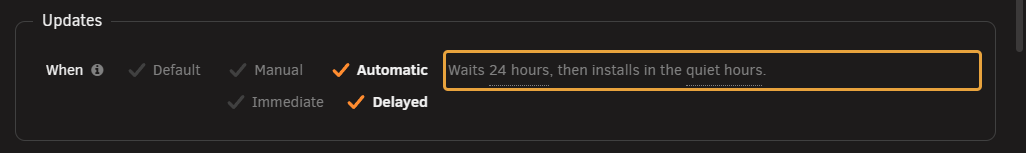
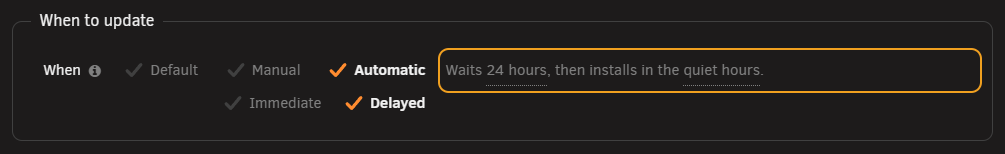
Guide: a Proxy and DNS page, and five pages brought up to date
The new page covers connecting Nginx Proxy Manager and Pi-hole, adding
the section to an app, saving and applying, taking over entries you
already have, switching off and removing, and the DNS mark. Settings
names the Integrations tab, Update policy the When to update box, the
editor tour folding sections, Marks the DNS mark, and Removing a stack
the proxy and Pi-hole choices. Pictures come from a throwaway demo stack.

Claude-Session: https://claude.ai/code/session_01XHPxR9EAziyYj4UczaFhek

diff --git a/docs/guide/proxy-and-dns.md b/docs/guide/proxy-and-dns.md
@@ -1,0 +1,109 @@
+# Proxy and DNS
+
+<!-- index: 47 | giving an app a web address through Nginx Proxy Manager and a local DNS name in Pi-hole, and what the DNS mark on the stack list means. -->
+
+Give an app a domain name and StaXX creates its proxy entry in Nginx Proxy Manager. It can also add
+the same name to Pi-hole, so devices on your network find the app by it. You need Nginx Proxy
+Manager; Pi-hole is optional.
+
+## The short version
+
+1. Connect StaXX to Nginx Proxy Manager, and to Pi-hole if you use it, on the **Integrations** tab
+   of Settings.
+2. Open the app's stack, press its **Sections** button, and turn on **Proxy and DNS**.
+3. Type a domain name, choose a certificate, and turn on **DNS name** if you want one.
+4. Press **Save**, then **Apply** to write the entry into Nginx Proxy Manager and Pi-hole.
+
+## Setting up the connection
+
+![The Integrations tab showing the Nginx Proxy Manager box with an example address and email, the Pi-hole box with an example address, Allow insecure connections switched on, and Test connection with a tick for Nginx Proxy Manager and a tick for Pi-hole](../images/guide/settings-integrations-proxy.png)
+
+Under **Settings**, on the **Integrations** tab, fill in the address of Nginx Proxy Manager's admin page
+(the one on port 81) and the email and password you sign in with there. Fill in Pi-hole's address too if
+you want local DNS names as well. Press **Save**, then **Test connection** to check both.
+
+If either service only answers on plain http, or its certificate cannot be checked, turn on
+**Allow insecure connections** first. Every setting on this tab is described in [Settings](settings.md).
+
+**Pi-hole passwords.** If your Pi-hole has no admin password set, leave the **App password** box
+blank. That Pi-hole ignores app passwords and reports any you try as incorrect. If
+your Pi-hole does have an admin password, make an app password for StaXX instead of using the admin
+one: in Pi-hole, go to **Settings → Web interface / API**, switch to **Expert**, open **Configure
+app password**, press **Enable new app password**, then **Save & Apply**. Paste the app password
+Pi-hole shows you into StaXX's Integrations tab. Pi-hole may also need **Permit destructive actions
+via API** turned on, in the same place, before StaXX can add or remove names. This needs Pi-hole 6;
+an older Pi-hole cannot be connected.
+
+## Adding the section to an app
+
+![Close-up of the Sections menu, with an arrow pointing at Proxy and DNS](../images/guide/proxy-and-dns-sections-menu-closeup.png)
+
+Open the stack, press the service's **Sections** button, and tick **Proxy and DNS**. The section
+appears after **Updates**. Start the app at least once before you save a domain name for it.
+
+## The Proxy and DNS section
+
+![The form side of the stack editor with the Proxy and DNS section open: Enabled on, the domain jellyfin.example.com, Certificate set to None (plain http), WebSockets and Add to Pi-hole on, two Status lines each marked with a red cross, reading Nginx Proxy Manager: no proxy entry yet and Pi-hole: the DNS name is missing, with an Apply button, and the Remove from proxy and DNS button](../images/guide/proxy-and-dns-group.png)
+
+| Row | What it does |
+|---|---|
+| **Domain name** | The address the app answers on, such as `sonarr.home.lan`. Typing one gives the app a proxy entry. |
+| **Certificate** | Which certificate Nginx Proxy Manager uses for this domain, picked from the certificates already stored there. Leave it unset for a plain, unencrypted entry. |
+| **WebSockets** | Whether the proxy allows WebSocket connections through to the app. On by default. |
+| **DNS name** | Adds a matching name in Pi-hole, pointing at Nginx Proxy Manager. Only shown once Pi-hole is connected. |
+| **Status** | Whether the entry in Nginx Proxy Manager and Pi-hole currently matches what is set here. |
+
+The **Enabled** switch beside the heading switches the proxy entry on or off in Nginx Proxy Manager.
+Its settings are kept while it is off.
+
+## Saving and applying
+
+Press **Save** as usual. If the Proxy and DNS group has changed, StaXX then shows what it is about
+to do in Nginx Proxy Manager and Pi-hole, one line per change.
+
+![The box that opens after Save, titled Update the proxy and DNS for jellyfin-demo, listing a proxy entry to create and a Pi-hole name to add, with Not now and Apply](../images/guide/proxy-and-dns-apply-confirm-closeup.png)
+
+Press **Apply** to make the changes now, or **Not now** to leave the stack saved without applying
+them yet. Left unapplied, the app's DNS mark on the stack list shows red until you apply it, from
+here or from the mark itself.
+
+## Taking over an entry you already have
+
+If Nginx Proxy Manager or Pi-hole already has an entry for the domain you typed, the box after
+**Save** offers to take it over. It lists anything that would change, or says **Nothing about it
+changes.** Press **Apply** to take it over as it is.
+
+- A proxy entry that answers for several domain names must be split in Nginx Proxy Manager first,
+  one name per entry.
+- Each app in StaXX needs a domain name of its own.
+
+## Switching off and removing
+
+Turn **Enabled** off to switch the proxy entry off. The Pi-hole name stays as it is.
+
+![The Enabled switch at the right end of the Proxy and DNS heading, with an arrow pointing at it](../images/guide/proxy-and-dns-enabled.png)
+
+Press **Remove from proxy and DNS** to take the app off both services. The proxy entry and the
+Pi-hole name are deleted when you save.
+
+If you clear the domain name or turn **DNS name** off instead, **Save** asks what to do with each
+entry: switch the proxy entry off, delete it or keep it, and delete or keep the Pi-hole name.
+
+## The DNS mark on the stack list
+
+An app with a domain name shows a small **DNS** mark beside its service name: green when its
+entries match, red when one is missing or changed, grey when switched off. Press a red mark to open
+the editor at this app's Proxy and DNS section. The [marks page](marks.md) has the full key.
+
+![The plex service on the stack list with its green DNS mark, and the card that opens on hover showing the domain name and a tick for Nginx Proxy Manager and for Pi-hole](../images/guide/proxy-and-dns-dns-mark.png)
+
+## Archiving a stack
+
+Removing a stack that has proxy or Pi-hole entries asks what to do with each of them. See
+[removing a stack](removing-a-stack.md).
+
+## Terms used here
+
+Any word you are not sure of is in the [glossary](../glossary.md).
+
+Back to [the StaXX guide](README.md).

diff --git a/docs/guide/settings.md b/docs/guide/settings.md
@@ -95,9 +95,10 @@ This tab is explained fully in [checking for updates](updates.md).
 | Remove old images automatically | No / Yes, once a week | No | With this on, once a week StaXX removes downloaded images that nothing is running and that are no longer kept for putting back. It never removes anything else. With it off, old images stay until you remove them yourself. |
 | Update-check activity | — | — | Shows, for each place StaXX asks about updates, how many times it has asked this hour and today, how many of those counted against that place's limit. Where there is something to say about a place — that it sets no limit of its own, or that it has stopped answering — the row carries an asterisk and the note appears once underneath the table. Look here when a row keeps saying `could not check`. See [checking for updates](updates.md#docker-hubs-limit). |
 
-## Registries and security tab
+## Integrations tab
 
-![The Registries and security tab in full: the Docker Hub access box with its Username and Access token fields, the Registries you run yourself box with its address field and Add button, and the StaXXCrypt hashing container box with its dropdown, its state line, the four password formats each marked passes, the What is inside it list and the Show the recipe link](../images/guide/settings-registries-tab.png)
+![The Integrations tab in full: the Docker Hub access box with its Username and Access token fields, the Registries you run yourself box with its address field and Add button, and the StaXXCrypt hashing container box with its dropdown, its state line, the four password formats each marked passes, the What is inside it list and the Show the recipe link](../images/guide/settings-registries-tab.png)
+![The lower part of the Integrations tab: the Nginx Proxy Manager box, the Pi-hole box, the Allow insecure connections switch and Test connection with its result](../images/guide/settings-integrations-proxy.png)
 
 | Setting | What it does |
 |---|---|
@@ -105,6 +106,15 @@ This tab is explained fully in [checking for updates](updates.md).
 | Docker Hub access token | The second half of signing in. Make one in Docker Hub's own account settings, under Security → Personal access tokens, choosing the **read-only, public repositories** permission. Even a leaked token could only look, never change or delete anything. It is stored in StaXX's settings inside the data store, where only the server's administrator can read it. Leave both boxes blank to sign out. |
 | Registries you run yourself | If you run your own image registry at home, naming it here lets StaXX check it for updates even though it has no public security certificate, or none at all. Only ever name a machine you control. Type its address the way it appears in an image name and press Add; remove one with its cross. A password is never sent to a registry reached without encryption. |
 | StaXXCrypt hashing container | With Keep it running, making a password hash is instant. With Only while hashing, the container starts when you need it and stops after; each hash then takes a couple of seconds longer. Under the dropdown you can see whether the container is built and running, which password formats it has proved it can make, the recipe number, a plain list of what is inside it, and a **Show the recipe** link that reveals exactly how it is built. The recipe number is a fingerprint of the recipe: change one line and the number changes, so matching numbers tell you the running container matches the recipe StaXX ships today. When an update to StaXX brings a new recipe, the number changes, the container is rebuilt from it, and the old one is removed. See [making a password hash](passwords-and-hashes.md). |
+| Nginx Proxy Manager address | The address of Nginx Proxy Manager's admin page, the one on port 81. With it filled in, you can give an app a domain name in the editor and StaXX adds its proxy entry. |
+| Nginx Proxy Manager email | The email you sign in to Nginx Proxy Manager with. |
+| Nginx Proxy Manager password | The password you sign in to Nginx Proxy Manager with. |
+| Pi-hole address | The address of your Pi-hole. With it filled in, StaXX can add a local DNS name for an app, pointing at Nginx Proxy Manager. |
+| Pi-hole app password | An app password made in Pi-hole's own Settings → Web interface / API, under Enable new app password. Leave this blank if your Pi-hole has no admin password. |
+| Allow insecure connections | With this on, StaXX is allowed to reach Nginx Proxy Manager and Pi-hole over a plain, unencrypted connection, or over an encrypted one without checking that the address really belongs to them. Anyone able to watch your network traffic could then read their passwords, and another device could pretend to be one of them. With it off, StaXX only connects to them when the connection is both encrypted and verified. |
+| Test connection | Signs in to Nginx Proxy Manager and Pi-hole with the addresses and passwords you have saved, and reports what each one says. Save your changes first. |
+
+See [Proxy and DNS](proxy-and-dns.md) for using Nginx Proxy Manager and Pi-hole with your stacks.
 
 ## Self-test
 

diff --git a/docs/guide/update-policy.md b/docs/guide/update-policy.md
@@ -23,9 +23,9 @@ Change both from a container's own page in the editor, or straight from its row 
 
 ## From a container's own page
 
-![The Updates box in the editor, showing the When row set to Automatic with Immediate and Delayed underneath it, and beneath it a separate Notifications box with three switches — New image, Image installed and Installation failed — each shown as an orange tick or a red cross, and a note reading Default = Installation failed](../images/guide/update-policy-editor.png)
+![The When to update box in the editor, showing the When row set to Automatic with Immediate and Delayed underneath it, and beneath it a separate Notifications box with three switches — New image, Image installed and Installation failed — each shown as an orange tick, and a note reading Default = New image, Image installed, Installation failed](../images/guide/update-policy-editor.png)
 
-Open the stack, then the container inside it, and find the **Updates** box below its container
+Open the stack, then the container inside it, and find the **When to update** box below its container
 settings.
 
 | Row | Choices | What it does |
@@ -37,9 +37,9 @@ A short note beside the **When** row states what is actually going to happen rig
 words — for example "Waits 24 hours, then installs in the quiet hours." Press the bold words inside
 the note to jump straight to the server setting it names.
 
-![The Updates section with Automatic chosen and the note beside the When row outlined, reading Waits 24 hours, then installs in the quiet hours](../images/guide/update-policy-when-note.png)
+![The When to update box with Automatic chosen and the note beside the When row outlined, reading Waits 24 hours, then installs in the quiet hours](../images/guide/update-policy-when-note.png)
 
-Below the **Updates** box sits a **Notifications** box, showing the same three switches as your
+Below the **When to update** box sits a **Notifications** box, showing the same three switches as your
 server-wide notification settings — **New image**, **Image installed** and **Installation failed** —
 each on (an orange tick) or off (a red cross). They start out matching your server. Leave all three
 alone and this container follows the server, however you change it later. Flip any one of them and

diff --git a/docs/guide/marks.md b/docs/guide/marks.md
@@ -136,6 +136,22 @@ All three reasons below show the same chip. Hover it to see which one you have.
 | <img src="../images/guide/marks-restart-reason-absent.png" alt="The circular arrow chip with its hover text reading Not started yet" width="330"> | In the file, never started |
 | <img src="../images/guide/marks-restart-reason-leftover.png" alt="The circular arrow chip with its hover text reading No longer in the file" width="330"> | Removed from the file after its container started; still running, but orphaned |
 
+## The DNS mark
+
+![An expanded folder on the stack list; the jellyfin-demo row's Services column reads jellyfin with a red DNS mark and requests with a grey DNS mark](../images/guide/marks-dnsmark-row.png)
+
+A small **DNS** mark beside a service's name in the Services column, shown when that service has a
+domain name set in its Proxy and DNS section. See [Proxy and DNS](proxy-and-dns.md).
+
+| Colour | Meaning | Hovering shows |
+|---|---|---|
+| Green | Its proxy entry and its Pi-hole name match | The domain name, with a tick for Nginx Proxy Manager and for Pi-hole |
+| Red | One of them is missing or has changed | The domain name, with a tick or a cross for Nginx Proxy Manager and for Pi-hole. Press the mark to open the editor at that app's Proxy and DNS section |
+| Grey | Switched off | Switched off |
+
+![A green DNS mark beside the service name plex](../images/guide/marks-dnsmark-green.png)
+![A red DNS mark beside jellyfin and a grey DNS mark beside requests](../images/guide/marks-dnsmark-red-grey.png)
+
 ## Tags beside the name
 
 ![Three stack rows, each with an orange "needs review" tag sitting next to the stack's name](../images/guide/marks-needs-review.png)

diff --git a/docs/guide/README.md b/docs/guide/README.md
@@ -29,8 +29,8 @@ This guide is written in English only.
 - **[Choosing how a container updates](update-policy.md)** — letting one container update itself, or
   wait for you, and whether it is mentioned in update messages — set on its own page or from its
   row.
-- **[Row marks and icons](marks.md)** — a quick key to every mark on the stacks page: running state,
-  update state, and the rest.
+- **[Row marks and icons](marks.md)** — a quick key to every mark and colour on the stacks page:
+  what each one means and what to do about it.
 - **[File locations and the data store](where-things-live.md)** — what is in the data store, what is
   on the flash drive, how to move the store, and how to reach StaXX if you cannot get to its page.
 - **[The Manage tab](the-manage-tab.md)** — what the Manage tab is for, how to open it, and what
@@ -43,6 +43,8 @@ This guide is written in English only.
 - **[Sanitise mode](hiding-your-values.md)** — the Sanitise tick that hides values marked secret
   while you photograph the editor, exactly what it leaves showing, what it switches off while it is
   on, and the one tab it cannot cover.
+- **[Proxy and DNS](proxy-and-dns.md)** — giving an app a web address through Nginx Proxy Manager
+  and a local DNS name in Pi-hole, and what the DNS mark on the stack list means.
 - **[Folders](folders.md)** — grouping stacks on the list: making a folder, moving a stack in or
   out, running everything inside one at once, renaming, and deleting.
 - **[Create a new stack](making-a-stack.md)** — starting a stack with nothing but a name: the

diff --git a/docs/guide/the-stack-editor.md b/docs/guide/the-stack-editor.md
@@ -74,9 +74,16 @@ service — then one section per service.
 Each service then gets its own set of groups. Press a service's **Sections** button to choose which
 of them to show; a tick marks each one already showing.
 
+Press the arrow beside a section's heading, or the heading itself, to fold the section away. Press
+it again to open it. Every section except **Container** folds. StaXX remembers which kinds of
+section you folded, in this browser, so folding **Ports** folds it on every stack you open.
+
+![Two section headings in the editor: Updates folded, with its arrow pointing right, and Proxy and DNS open below it, with its arrow pointing down](../images/guide/the-stack-editor-fold.png)
+
 | Group | For |
 |---|---|
 | Container | The image, the name and how it restarts. Always shown — every service must have it. |
+| Proxy and DNS | Shown only once Nginx Proxy Manager is set up in [Settings](settings.md). See [proxy and DNS](proxy-and-dns.md). |
 | Networks | Which networks this service joins. |
 | Ports | Which ports it publishes. On by default. |
 | Volumes | Folders and files it shares with the server. On by default. |

diff --git a/docs/guide/removing-a-stack.md b/docs/guide/removing-a-stack.md
@@ -38,6 +38,20 @@ The dialog lists, in order:
   volumes by name marked *(a volume Docker manages)*, or **none**. None of these are moved or
   changed. A named volume is removed only by Docker's own clean-up, never by StaXX.
 
+### Proxy and DNS entries
+
+If StaXX made a proxy entry or a Pi-hole name for the stack, the dialog also asks what to do with
+each. See [Proxy and DNS](proxy-and-dns.md).
+
+![The Proxy and DNS part of the removal box: the proxy entry with Switch off ticked and Delete and Keep beside it, and the Pi-hole name with Delete ticked and Keep beside it](../images/guide/removing-a-stack-proxy-dns.png)
+
+| For | Choices | Chosen unless you change it |
+|---|---|---|
+| The proxy entry | **Switch off**, **Delete** or **Keep** | **Switch off** |
+| The Pi-hole name | **Delete** or **Keep** | **Delete** |
+
+A switched-off proxy entry keeps its settings and can be switched back on in Nginx Proxy Manager.
+
 ## What happens
 
 Removing a stack can take a little while. Once it is done:
